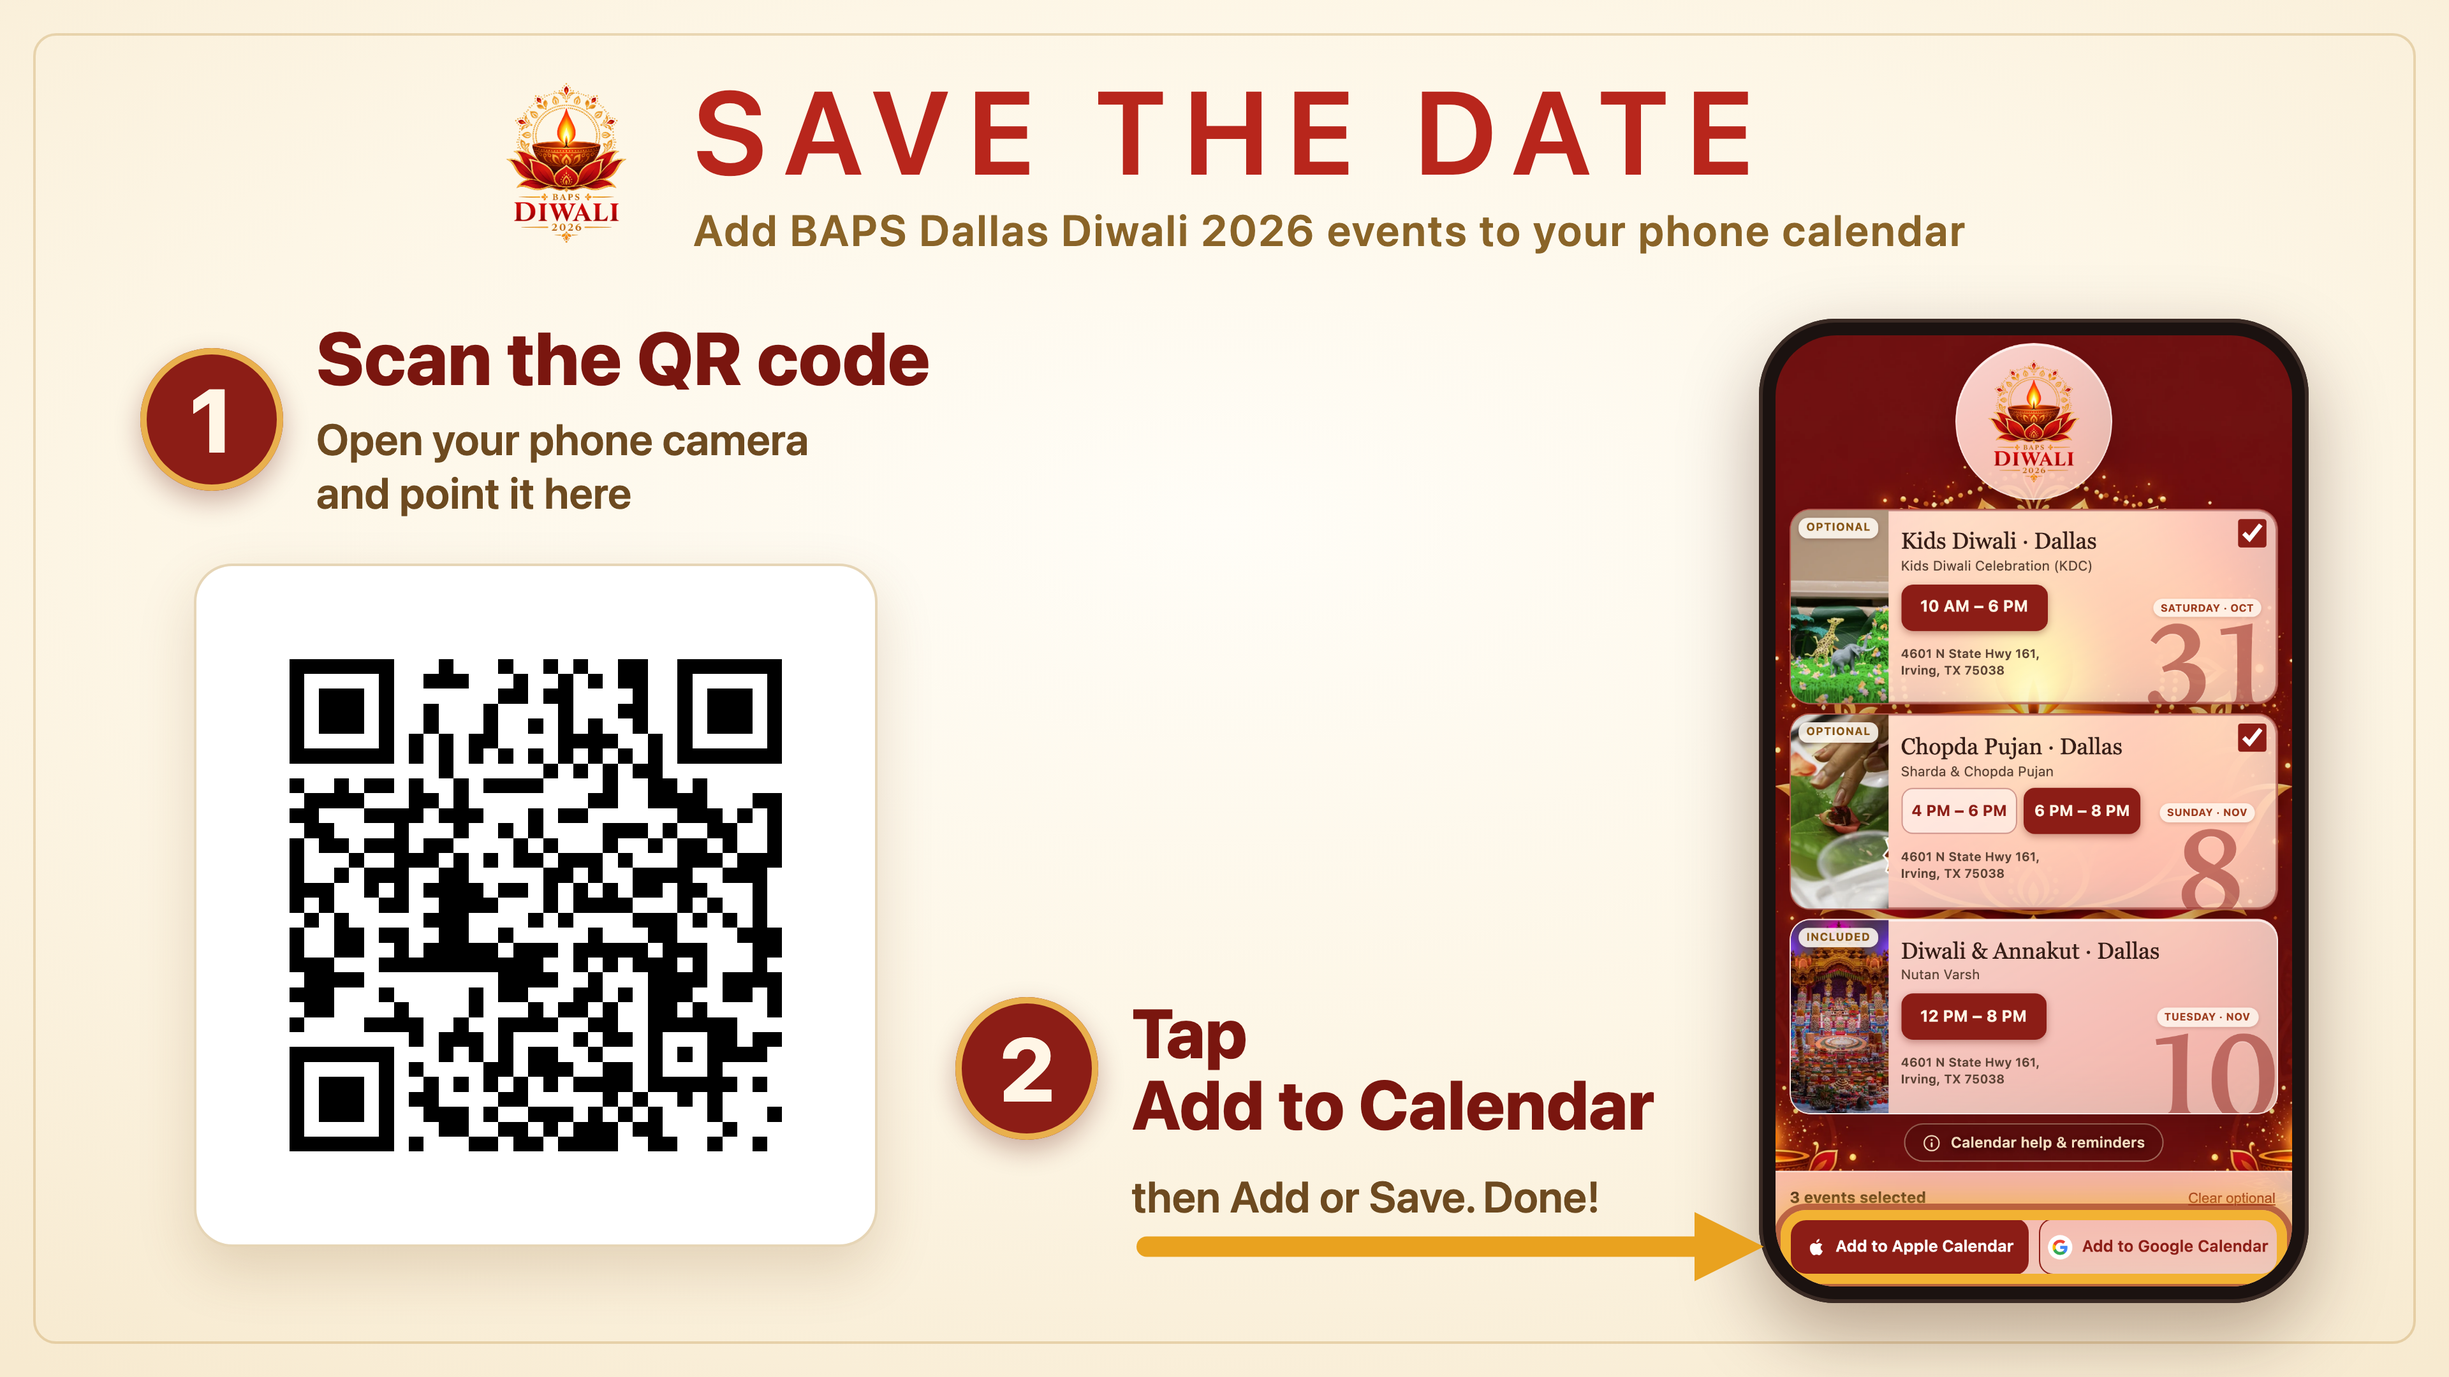
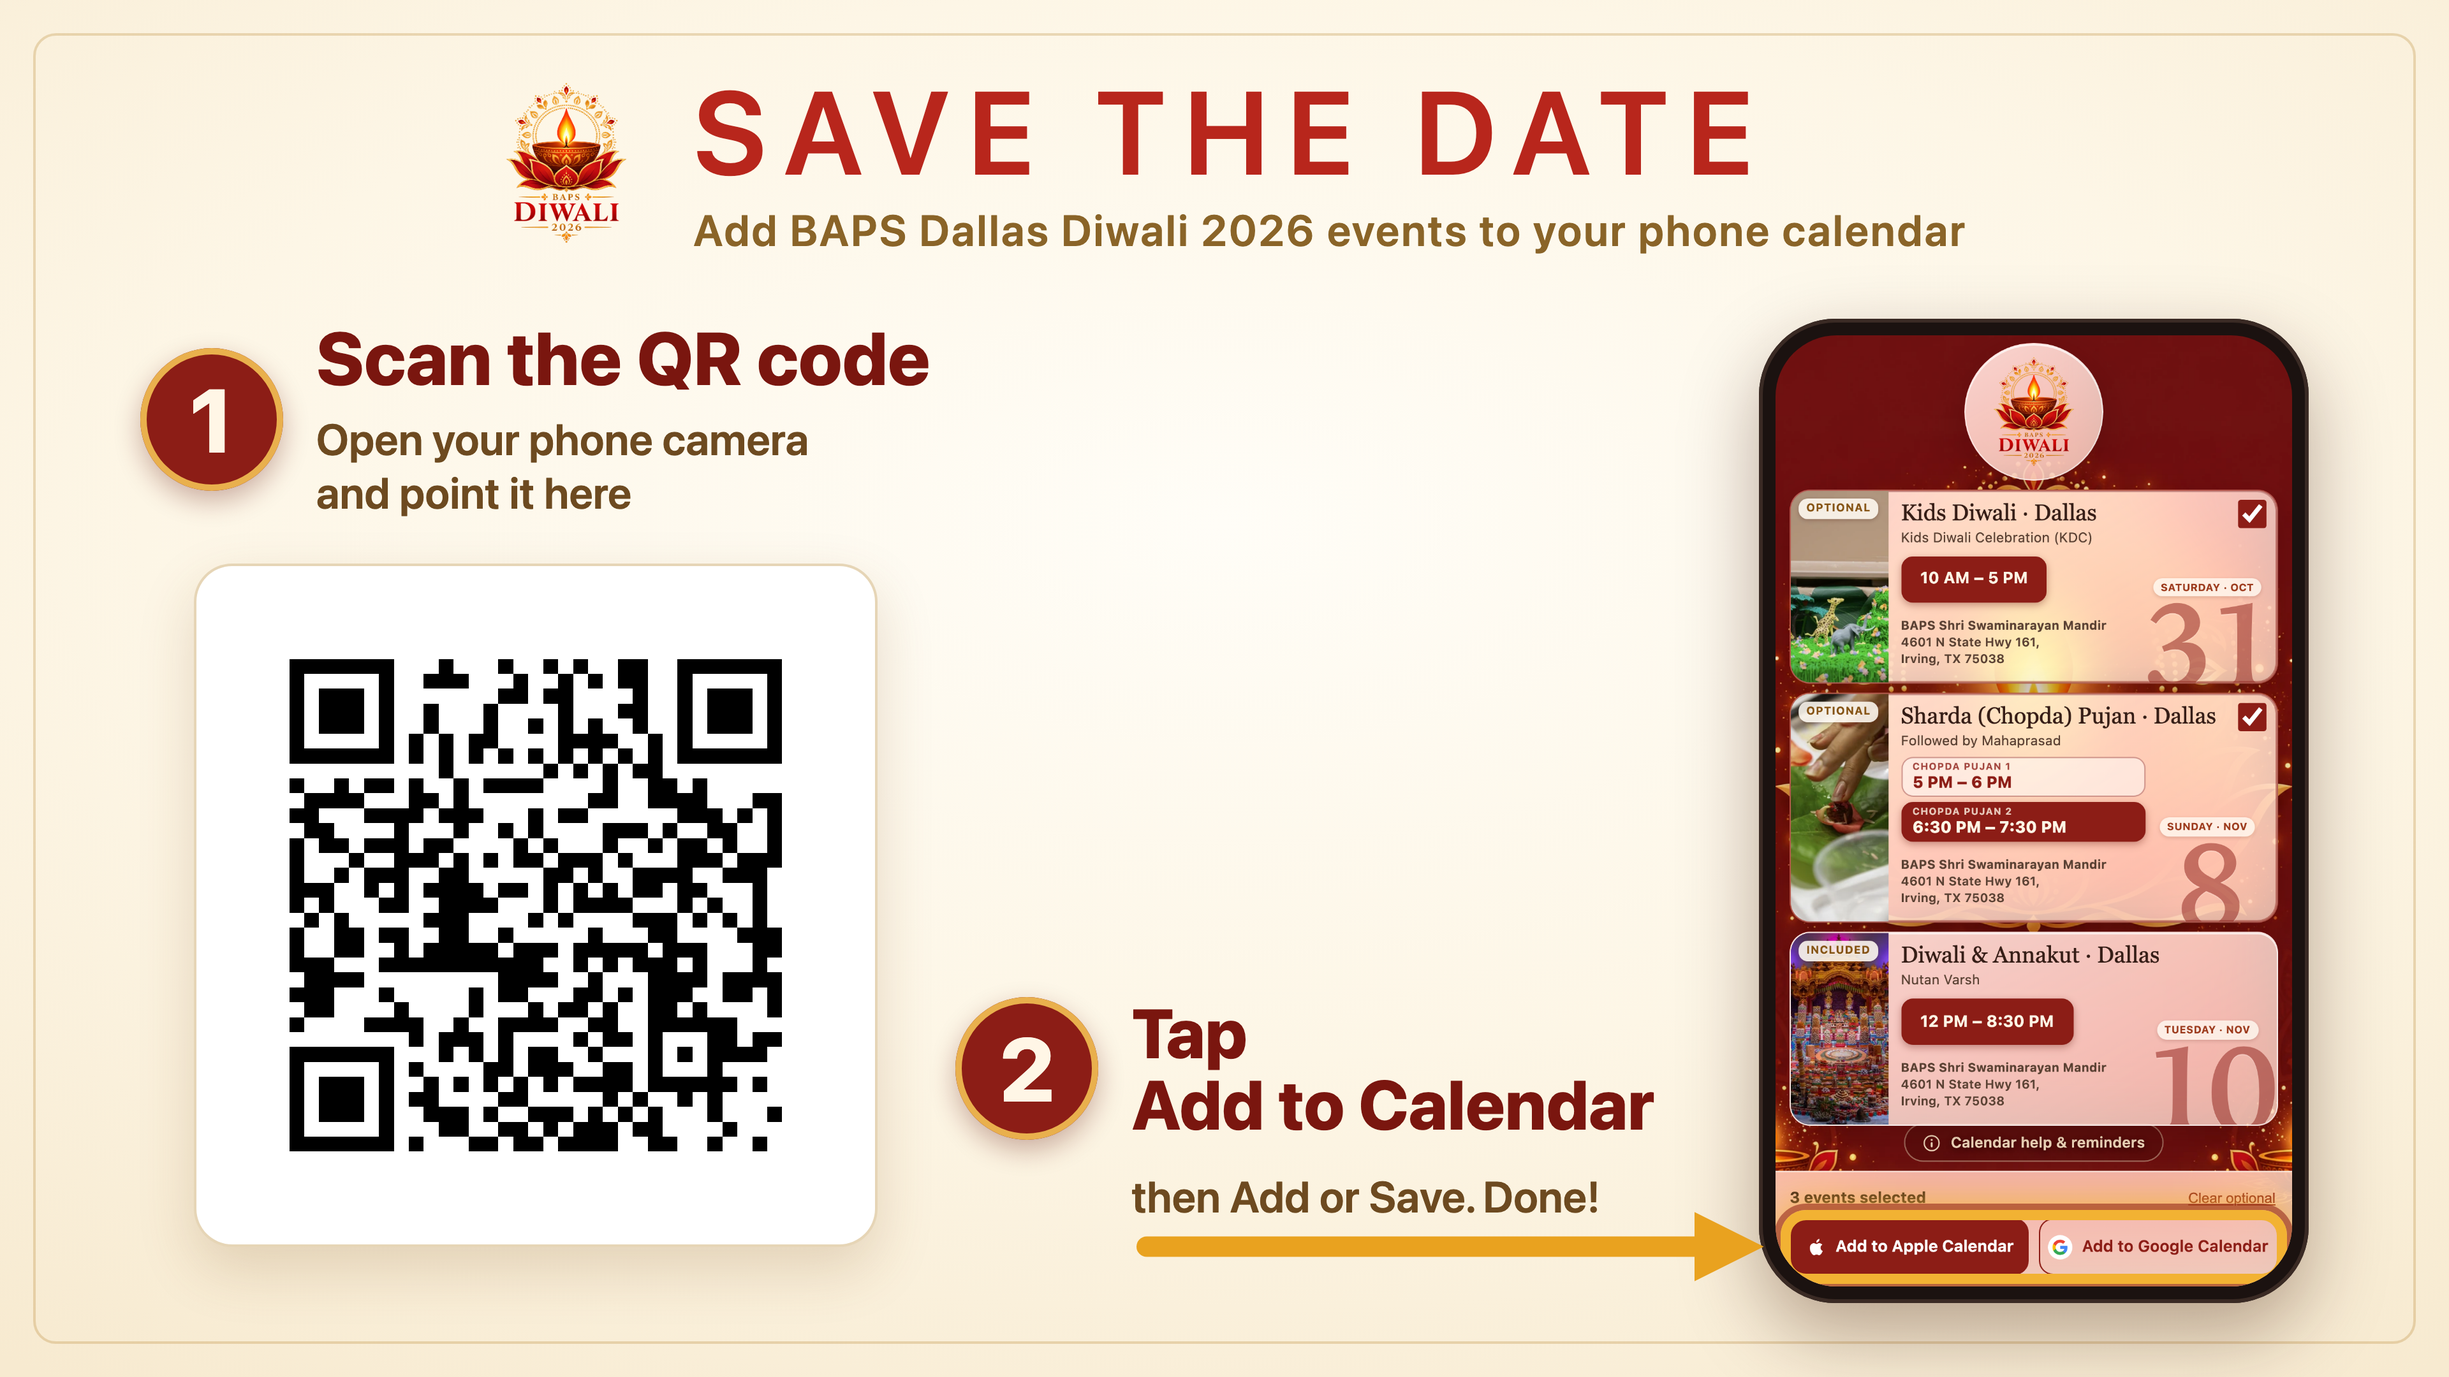
feat: new times, Sharda (Chopda) Pujan sessions, mandir line, slides
- KDC 10 AM – 5 PM; Chopda Pujan 1 5 – 6 PM, Chopda Pujan 2 6:30 – 7:30 PM;
  Annakut 12 PM – 8:30 PM. SEQUENCE 3, UIDs unchanged.
- Card renamed "Sharda (Chopda) Pujan", subtitle "Followed by Mahaprasad"
  (also in the .ics/Google description). Sessions stack as rows: small
  caps name, bold time, so the longer time fits on phones.
- "BAPS Shri Swaminarayan Mandir" above every address.
- Grid rows size to content; logo badge trimmed to 130px max to make room.
- How-to slides re-rendered from a fresh screenshot; both QRs decode.
- Tests updated for the new data and deliberate layout changes.

Changed region(s): [[0.7188, 0.2481, 0.9375, 0.8375], [0.875, 0.7134, 0.9375, 0.7755]]

diff --git a/calendar.js b/calendar.js
@@ -6,10 +6,10 @@
   // Short city label per venue, used in every displayed title.
   const cities = { dallas: 'Dallas' };
   const events = [
-    { id: 'kdc', uid: 'kids-diwali-kdc-2026@krupesh9.github.io', title: 'Kids Diwali Celebration (KDC) 2026, Dallas TX', name: 'Kids Diwali', subtitle: 'Kids Diwali Celebration (KDC) · Dallas TX', date: '20261031', start: '100000', end: '180000', dateLabel: 'Saturday, October 31', timeLabel: '10 AM – 6 PM', venue: 'dallas', required: false, image: 'assets/events/kids-diwali.png' },
-    { id: 'morning', uid: 'chopda-pujan-morning-dallas-2026@bapsdallas.github.io', title: 'Chopda Pujan (4 PM Session) 2026, Dallas TX', name: 'Chopda Pujan', subtitle: 'Sharda & Chopda Pujan · Dallas TX', date: '20261108', start: '160000', end: '180000', dateLabel: 'Sunday, November 8', timeLabel: '4 PM – 6 PM', venue: 'dallas', required: false, image: 'assets/events/chopda-pujan.png' },
-    { id: 'evening', uid: 'chopra-pujan-dallas-2026@krupesh9.github.io', title: 'Chopda Pujan (6 PM Session) 2026, Dallas TX', name: 'Chopda Pujan', subtitle: 'Sharda & Chopda Pujan · Dallas TX', date: '20261108', start: '180000', end: '200000', dateLabel: 'Sunday, November 8', timeLabel: '6 PM – 8 PM', venue: 'dallas', required: false, image: 'assets/events/chopda-pujan.png' },
-    { id: 'dallas', uid: 'annakut-dallas-2026@krupesh9.github.io', title: 'Diwali & Annakut (Nutan Varsh) 2026, Dallas TX', name: 'Diwali & Annakut', subtitle: 'Nutan Varsh · Dallas TX', date: '20261110', start: '120000', end: '200000', dateLabel: 'Tuesday, November 10', timeLabel: '12 PM – 8 PM', venue: 'dallas', required: true, image: 'assets/events/dallas.png' }
+    { id: 'kdc', uid: 'kids-diwali-kdc-2026@krupesh9.github.io', title: 'Kids Diwali Celebration (KDC) 2026, Dallas TX', name: 'Kids Diwali', subtitle: 'Kids Diwali Celebration (KDC) · Dallas TX', date: '20261031', start: '100000', end: '170000', dateLabel: 'Saturday, October 31', timeLabel: '10 AM – 5 PM', venue: 'dallas', required: false, image: 'assets/events/kids-diwali.png' },
+    { id: 'morning', uid: 'chopda-pujan-morning-dallas-2026@bapsdallas.github.io', title: 'Sharda (Chopda) Pujan – Chopda Pujan 1 2026, Dallas TX', name: 'Sharda (Chopda) Pujan', session: 'Chopda Pujan 1', subtitle: 'Followed by Mahaprasad · Dallas TX', note: 'Followed by Mahaprasad', date: '20261108', start: '170000', end: '180000', dateLabel: 'Sunday, November 8', timeLabel: '5 PM – 6 PM', venue: 'dallas', required: false, image: 'assets/events/chopda-pujan.png' },
+    { id: 'evening', uid: 'chopra-pujan-dallas-2026@krupesh9.github.io', title: 'Sharda (Chopda) Pujan – Chopda Pujan 2 2026, Dallas TX', name: 'Sharda (Chopda) Pujan', session: 'Chopda Pujan 2', subtitle: 'Followed by Mahaprasad · Dallas TX', note: 'Followed by Mahaprasad', date: '20261108', start: '183000', end: '193000', dateLabel: 'Sunday, November 8', timeLabel: '6:30 PM – 7:30 PM', venue: 'dallas', required: false, image: 'assets/events/chopda-pujan.png' },
+    { id: 'dallas', uid: 'annakut-dallas-2026@krupesh9.github.io', title: 'Diwali & Annakut (Nutan Varsh) 2026, Dallas TX', name: 'Diwali & Annakut', subtitle: 'Nutan Varsh · Dallas TX', date: '20261110', start: '120000', end: '203000', dateLabel: 'Tuesday, November 10', timeLabel: '12 PM – 8:30 PM', venue: 'dallas', required: true, image: 'assets/events/dallas.png' }
   ];
   const TZID = 'America/Chicago';
   const timezone = ['BEGIN:VTIMEZONE', `TZID:${TZID}`, 'BEGIN:DAYLIGHT', 'DTSTART:19700308T020000', 'TZOFFSETFROM:-0600', 'TZOFFSETTO:-0500', 'RRULE:FREQ=YEARLY;BYMONTH=3;BYDAY=2SU', 'END:DAYLIGHT', 'BEGIN:STANDARD', 'DTSTART:19701101T020000', 'TZOFFSETFROM:-0500', 'TZOFFSETTO:-0600', 'RRULE:FREQ=YEARLY;BYMONTH=11;BYDAY=1SU', 'END:STANDARD', 'END:VTIMEZONE'];
@@ -23,6 +23,8 @@
     }
     return result;
   }
+  // Calendar notes: any event note ("Followed by Mahaprasad") above the link.
+  const detailsOf = event => [event.note, 'https://www.baps.org/dallas'].filter(Boolean).join('\n');
   function selectedEvents(ids = []) {
     // The earlier session wins for conflicting programmatic input; the UI permits only one.
     const chosen = ids.includes('morning') ? ids.filter(id => id !== 'evening') : ids;
@@ -31,7 +33,7 @@
   function buildCalendar(ids = []) {
     const lines = ['BEGIN:VCALENDAR', 'VERSION:2.0', 'PRODID:-//BAPS Dallas//Diwali 2026//EN', 'CALSCALE:GREGORIAN', 'METHOD:PUBLISH', ...timezone];
     for (const event of selectedEvents(ids)) {
-      lines.push('BEGIN:VEVENT', `UID:${event.uid}`, 'DTSTAMP:20260922T180000Z', 'SEQUENCE:2', `SUMMARY:${escapeText(event.title)}`, `DTSTART;TZID=${TZID}:${event.date}T${event.start}`, `DTEND;TZID=${TZID}:${event.date}T${event.end}`, `LOCATION:${escapeText(addresses[event.venue])}`, 'DESCRIPTION:https://www.baps.org/dallas', 'URL:https://www.baps.org/dallas');
+      lines.push('BEGIN:VEVENT', `UID:${event.uid}`, 'DTSTAMP:20260923T180000Z', 'SEQUENCE:3', `SUMMARY:${escapeText(event.title)}`, `DTSTART;TZID=${TZID}:${event.date}T${event.start}`, `DTEND;TZID=${TZID}:${event.date}T${event.end}`, `LOCATION:${escapeText(addresses[event.venue])}`, `DESCRIPTION:${escapeText(detailsOf(event))}`, 'URL:https://www.baps.org/dallas');
       for (const days of [7, 1]) lines.push('BEGIN:VALARM', `TRIGGER:-P${days}D`, 'ACTION:DISPLAY', 'DESCRIPTION:Event reminder', 'END:VALARM');
       lines.push('END:VEVENT');
     }
@@ -48,7 +50,7 @@
       dates: `${event.date}T${event.start}/${event.date}T${event.end}`,
       ctz: TZID,
       location: addresses[event.venue],
-      details: 'https://www.baps.org/dallas'
+      details: detailsOf(event)
     });
     return `https://calendar.google.com/calendar/render?${params}`;
   }

diff --git a/page.js b/page.js
@@ -37,13 +37,13 @@ function railParts(event) {
   };
 }
 
-/* Drop only the mandir name; street, city, state and ZIP all stay. Street and
-   locality are separate lines rather than one string left to wrap, so every card
-   breaks in the same place at every width, the way a postal address reads. */
+/* Mandir, street and locality are separate lines rather than one string left
+   to wrap, so every card breaks in the same place at every width, the way a
+   postal address reads. */
 function addressNode(venue) {
-  const [, street, city, stateZip] = addresses[venue].split(', ');
+  const [mandir, street, city, stateZip] = addresses[venue].split(', ');
   const node = element('p', 'address');
-  node.append(element('span', '', `${street},`), element('span', '', `${city}, ${stateZip}`));
+  node.append(element('span', 'mandir', mandir), element('span', '', `${street},`), element('span', '', `${city}, ${stateZip}`));
   return node;
 }
 
@@ -159,9 +159,9 @@ function makeCard(event, selectable = false) {
   return card;
 }
 
-/* Both sessions are in the evening and are labelled by their times alone. The
-   ids stay 'morning' and 'evening' so the UIDs, and any copy a visitor has
-   already imported, carry over. */
+/* The two sessions are named "Chopda Pujan 1" and "Chopda Pujan 2". The ids
+   stay 'morning' and 'evening' so the UIDs, and any copy a visitor has already
+   imported, carry over. */
 /* The Chopda Pujan card keeps the shared silhouette; the time line becomes a
    two-segment session picker so the card stays the same height as the others. */
 function makePujanCard() {
@@ -188,11 +188,11 @@ function makePujanCard() {
     input.name = 'pujan';
     input.value = id;
     input.checked = id === 'evening';
-    input.setAttribute('aria-label', `Chopda Pujan, ${event.timeLabel}`);
+    input.setAttribute('aria-label', `${event.session}, ${event.timeLabel}`);
     input.addEventListener('change', () => { pujanIncluded.checked = true; updateSelection(); });
     optionalInputs.push(input);
     sessions.push(input);
-    choice.append(input, element('span', '', event.timeLabel));
+    choice.append(input, element('strong', '', event.session), element('span', '', event.timeLabel));
     toggle.append(choice);
   }
 
@@ -290,7 +290,7 @@ function openSheet() {
   for (const event of selectedEvents(downloadIds())) {
     const item = element('li', 'gcal-item');
     const text = element('div', '');
-    text.append(element('strong', '', titleOf(event)), element('span', '', subtitleOf(event)),
+    text.append(element('strong', '', titleOf(event)), element('span', '', [event.session, subtitleOf(event)].filter(Boolean).join(' · ')),
                 element('span', 'gcal-when', `${event.dateLabel} · ${event.timeLabel}`));
     const link = element('a', 'gcal-add', 'Add');
     link.href = googleCalendarUrl(event);

diff --git a/styles.css b/styles.css
@@ -78,7 +78,7 @@ main {
   display: flex;
   align-items: center;
   justify-content: center;
-  height: clamp(84px, 16.5svh, 140px);
+  height: clamp(80px, 14.5svh, 130px);
   aspect-ratio: 1;
   padding: 0;
   border: 1px solid var(--glass-edge);
@@ -120,7 +120,9 @@ main {
   min-height: 0;
   max-height: 560px;
   display: grid;
-  grid-auto-rows: minmax(86px, 1fr);
+  /* Never shorter than its content: the Chopda Pujan card needs a little more
+     room than the others for its two session rows. */
+  grid-auto-rows: minmax(min-content, 1fr);
   gap: var(--gap);
   align-content: stretch;
 }
@@ -438,6 +440,28 @@ h2 {
   box-shadow: 0 2px 6px var(--accent-shadow);
 }
 
+/* Chopda Pujan's two sessions stack as rows: "6:30 PM – 7:30 PM" is too wide
+   for side-by-side segments on a phone. The session name is a small caps
+   label; the time is what reads first. */
+.pujan-card .session-toggle { flex-direction: column; gap: 4px; max-width: calc(100% - 92px); }
+.pujan-card .session { min-height: 0; padding: 3px 8px; gap: 0; align-items: flex-start; }
+.pujan-card .session strong {
+  font-size: 7.5px;
+  font-weight: 700;
+  letter-spacing: .06em;
+  text-transform: uppercase;
+  line-height: 1.15;
+  opacity: .8;
+}
+.pujan-card .session span { font-size: 12.5px; font-weight: 800; line-height: 1.15; }
+
+/* "Sharda (Chopda) Pujan · Dallas" is the longest title; below 390px it steps
+   down so it still fits on one line. */
+@media (max-width: 389px) { .pujan-card h2 { font-size: 3.9vw; } }
+
+/* The mandir heads the address block, a shade stronger than the street lines. */
+.address .mandir { font-weight: 700; }
+
 .session:focus-within { outline: 3px solid #f2c46a; outline-offset: 1px; }
 
 /* ---------- Help ---------- */
@@ -754,6 +778,8 @@ button:focus-visible, a:focus-visible, summary:focus-visible {
   .session { font-size: 10.5px; }
   /* The full "4 PM – 6 PM" has to fit a half-width segment on the narrowest phones. */
   .session span { font-size: 9px; letter-spacing: -.01em; }
+  .pujan-card .session span { font-size: 11px; }
+  .pujan-card .session { padding: 3px 6px; }
   /* "SATURDAY · OCT" is the widest label and has to fit the narrow rail too. */
   .date-labels { font-size: 7px; letter-spacing: 0; padding: 2px 5px; }
   .event-time { padding: 4px 8px; font-size: 11.5px; }

diff --git a/README.md b/README.md
@@ -18,10 +18,10 @@ All dates are in 2026 and times are America/Chicago. Event dates are retained fr
 
 | Event | Date | Time | Included |
 | --- | --- | --- | --- |
-| Diwali & Annakut (Nutan Varsh), Dallas TX | November 10 | 12 PM–8 PM | Always |
-| Kids Diwali Celebration (KDC), Dallas TX | October 31 | 10 AM–6 PM | Optional |
-| Chopda Pujan (4 PM Session), Dallas TX | November 8 | 4–6 PM | Optional |
-| Chopda Pujan (6 PM Session), Dallas TX | November 8 | 6–8 PM | Optional, selected by default |
+| Diwali & Annakut (Nutan Varsh), Dallas TX | November 10 | 12 PM–8:30 PM | Always |
+| Kids Diwali Celebration (KDC), Dallas TX | October 31 | 10 AM–5 PM | Optional, selected by default |
+| Sharda (Chopda) Pujan – Chopda Pujan 1, Dallas TX | November 8 | 5–6 PM, followed by Mahaprasad | Optional |
+| Sharda (Chopda) Pujan – Chopda Pujan 2, Dallas TX | November 8 | 6:30–7:30 PM, followed by Mahaprasad | Optional, selected by default |
 
 The Frisco Diwali & Annakut (November 14) was removed on 2026-09-22. The file name `Diwali_Events_Dallas_Frisco_2026.ics` is kept so existing links keep working. Internally the two Chopda sessions keep the ids `morning` and `evening` so their UIDs carry over and already-imported copies update in place (`SEQUENCE` is 2).
 

diff --git a/CHANGELOG.md b/CHANGELOG.md
@@ -2,6 +2,10 @@
 
 ## 2026-09-23
 
+- Times: Kids Diwali 10 AM – 5 PM; Chopda Pujan 1 5 – 6 PM, Chopda Pujan 2 6:30 – 7:30 PM; Annakut 12 PM – 8:30 PM. SEQUENCE 3 so imported copies update.
+- Rename the card to "Sharda (Chopda) Pujan" with "Followed by Mahaprasad" beneath (also in the calendar description); sessions stack as labelled rows.
+- "BAPS Shri Swaminarayan Mandir" above every address. Logo badge trimmed slightly to make room.
+- Re-render both how-to slides from a fresh phone screenshot.
 - Add a how-to slide in two variants (one per QR): Step 1 scan the QR, Step 2 tap Add to Calendar, with an arrow into the highlighted buttons on a real phone screenshot.
 - `diwali-only.html` now uses the `add-calendar.html` layout and looks identical to it; only its link-preview tags differ, so the second QR is unaffected.
 - Keep the photo-on-top layout as a backup, `diwali-only-banner.html` + `banner.css` (renamed from `diwali-only.css`), for one or two events; with three or more it falls back to the `add-calendar.html` layout.
